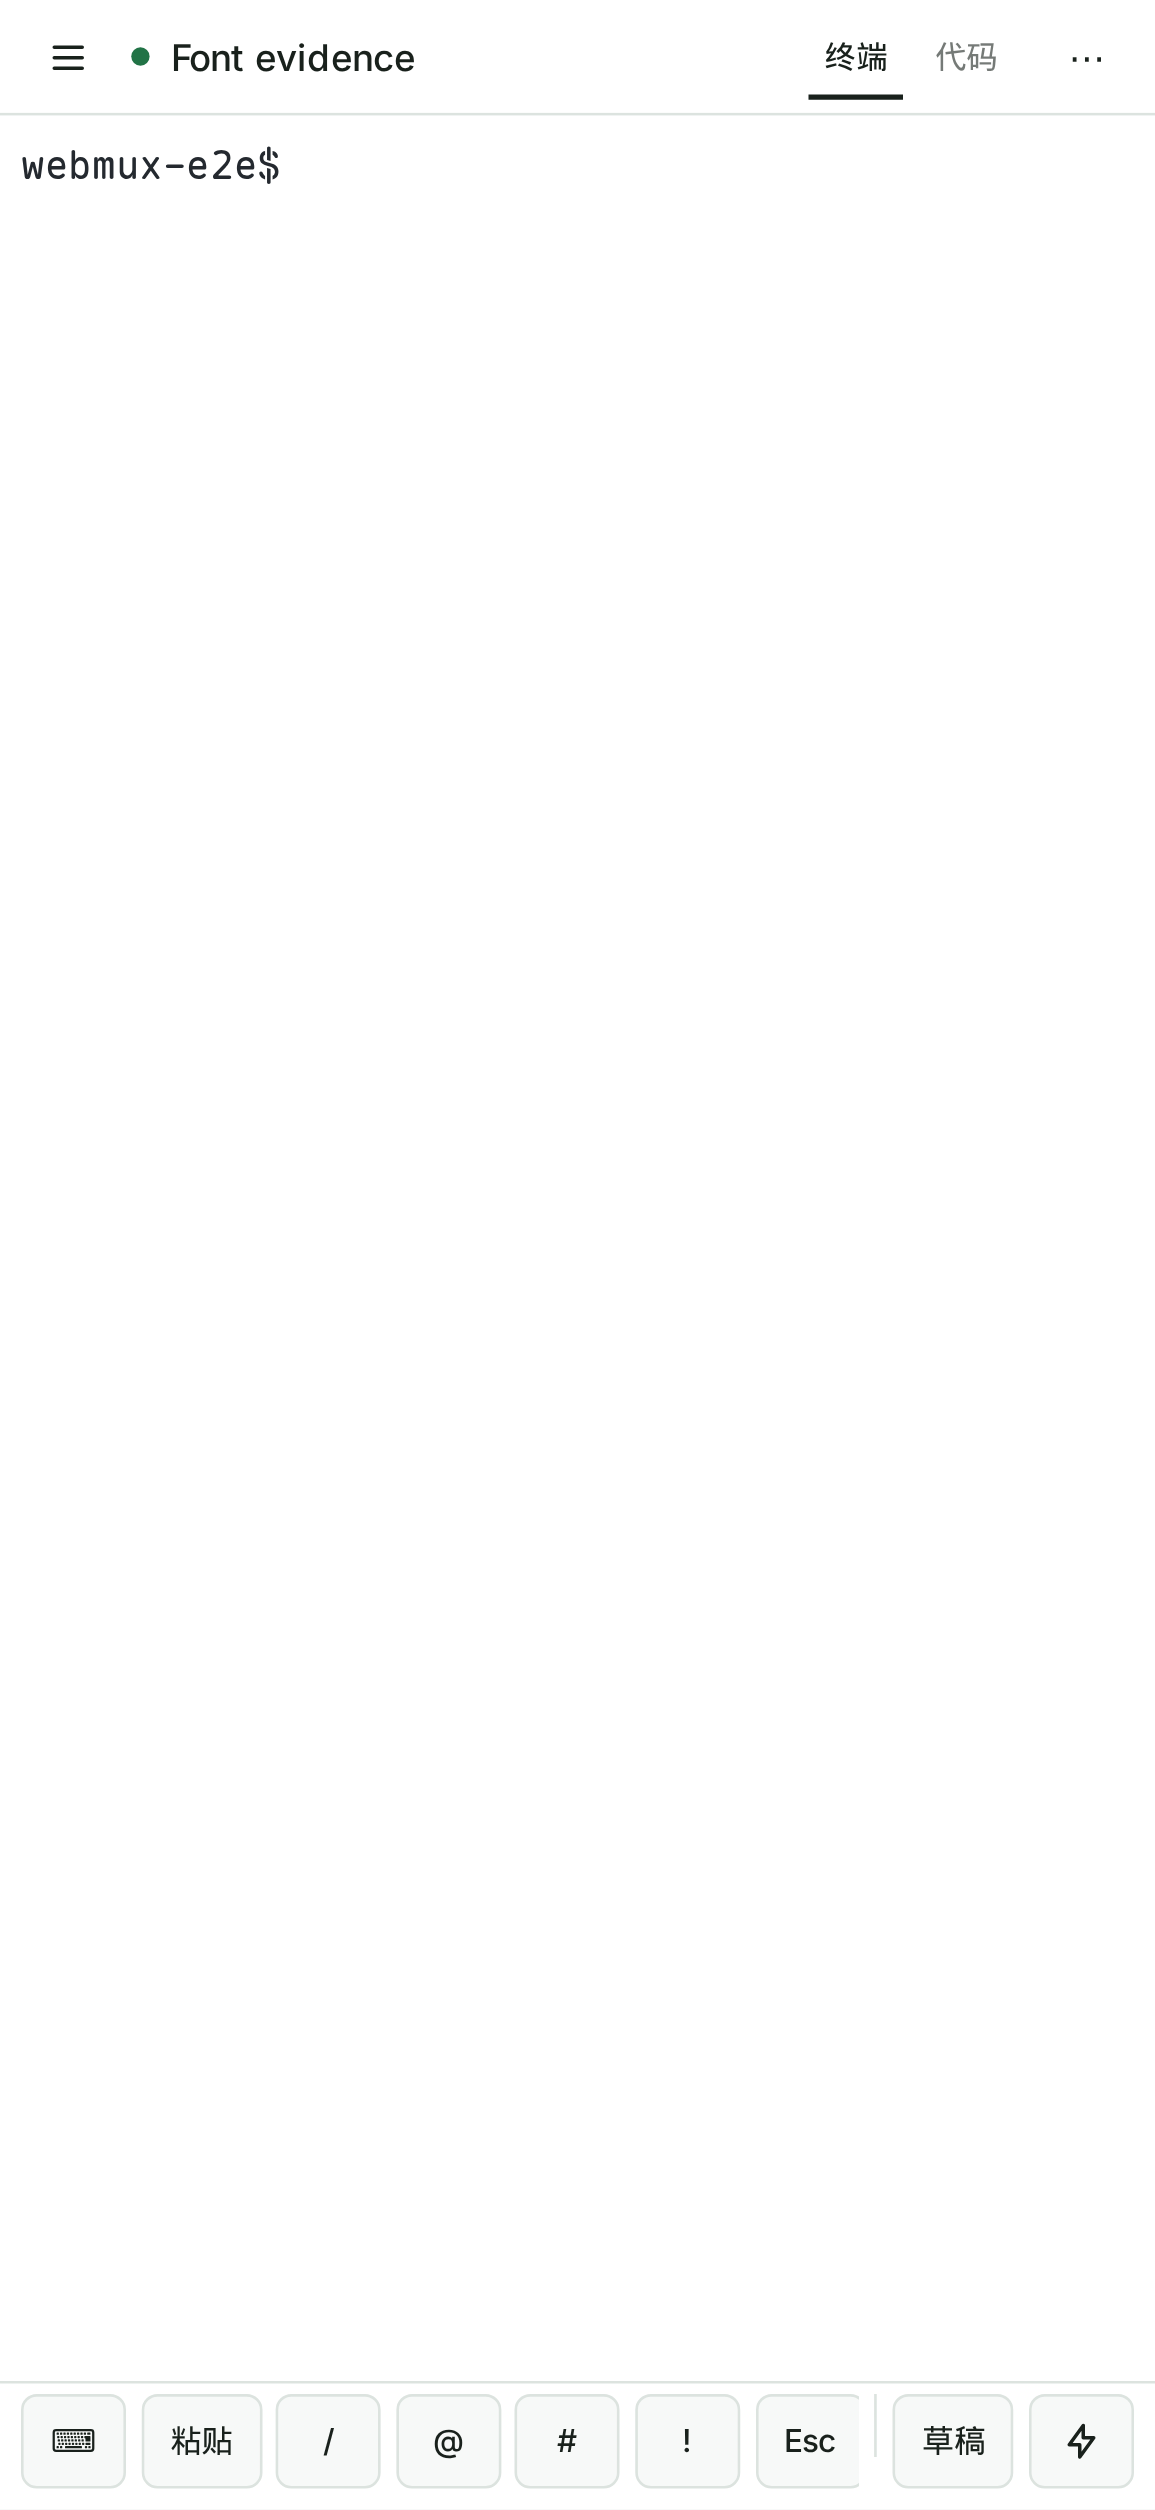
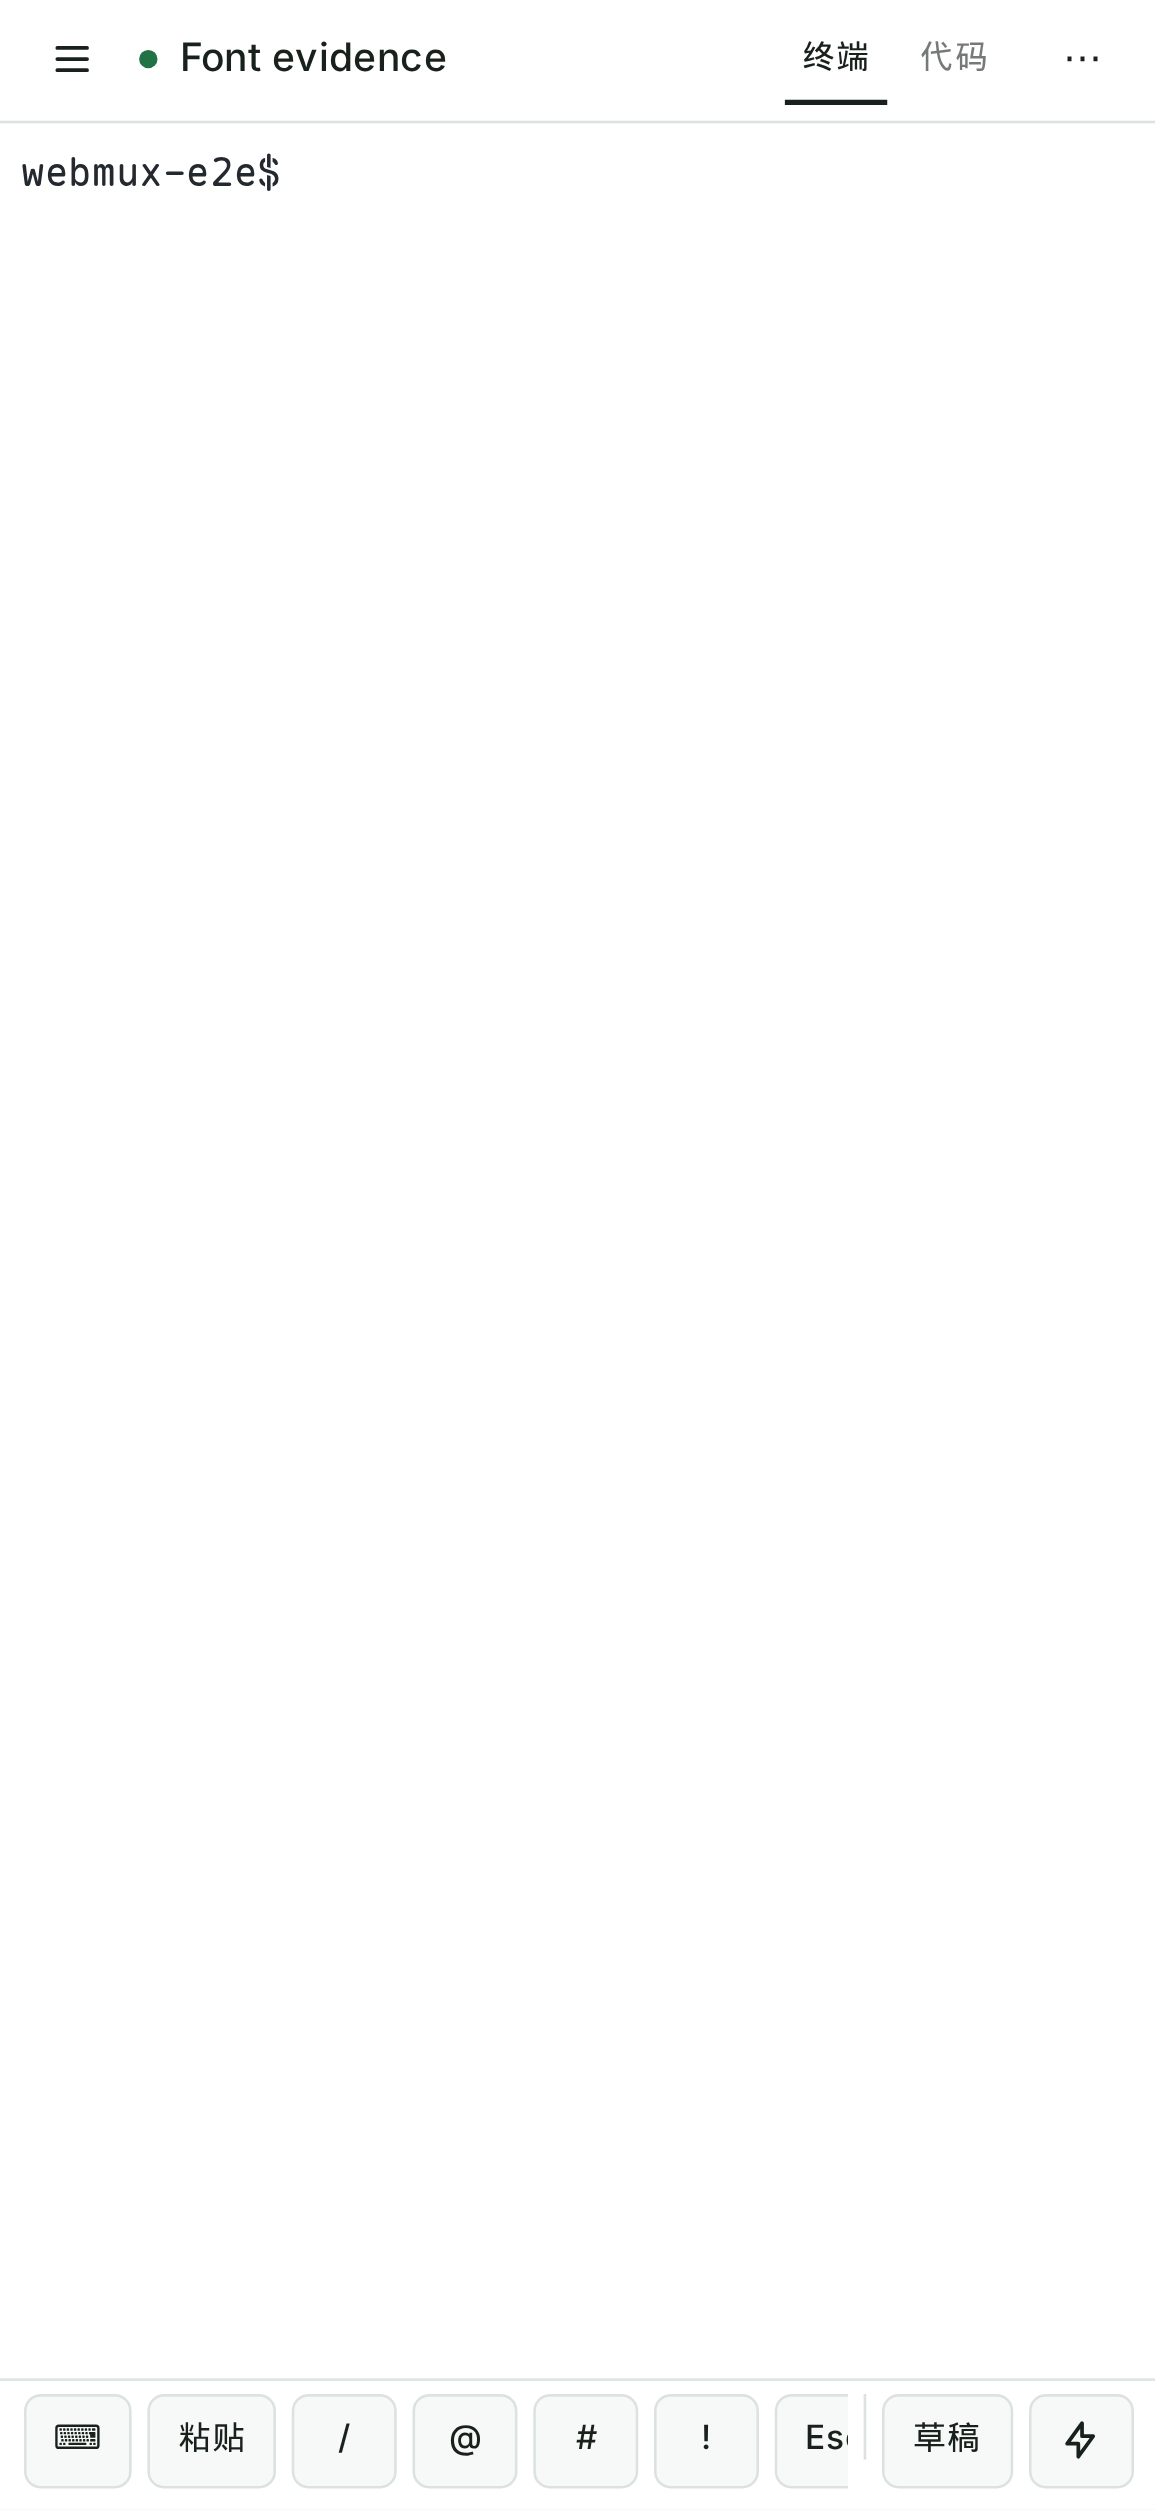
fix(web): scale mobile app typography

diff --git a/web/src/styles.css b/web/src/styles.css
@@ -46,6 +46,14 @@
     @apply font-sans;
     font-synthesis-weight: none;
   }
+  /* Give the complete mobile interface a modest type increase. Component
+     spacing and control sizing remain governed by the same rem-based tokens,
+     while the existing desktop scale stays unchanged. */
+  @media (any-pointer: coarse), (max-width: 639px) {
+    html {
+      font-size: 106.25%;
+    }
+  }
   html:has(.workspace-page) {
     /* Keep the root track even where custom/overlay scrollbars do not reserve
        a stable gutter. Keep this policy scoped to the workspace document. */
